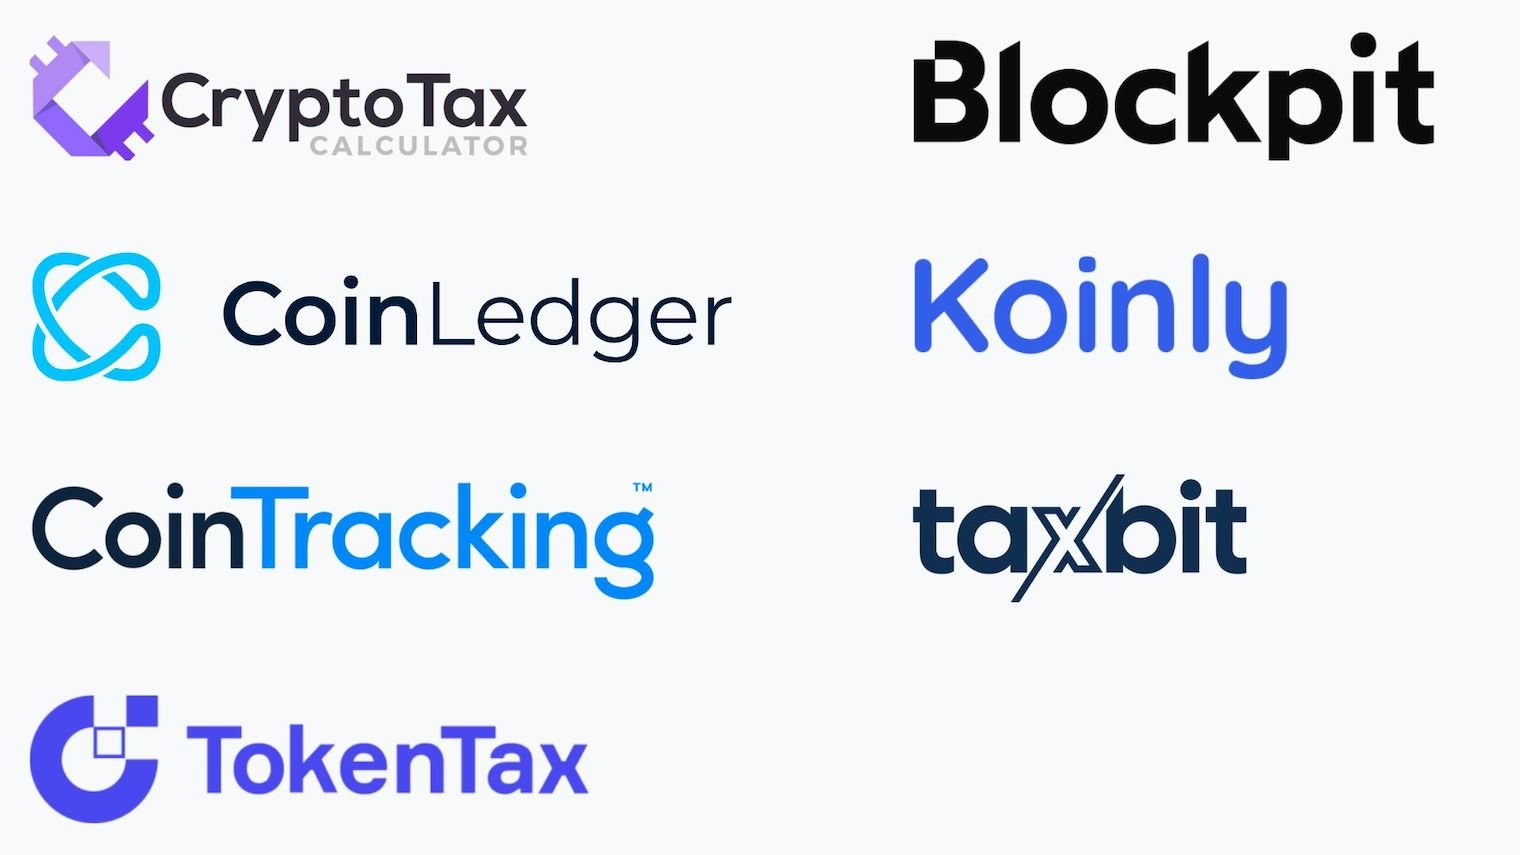
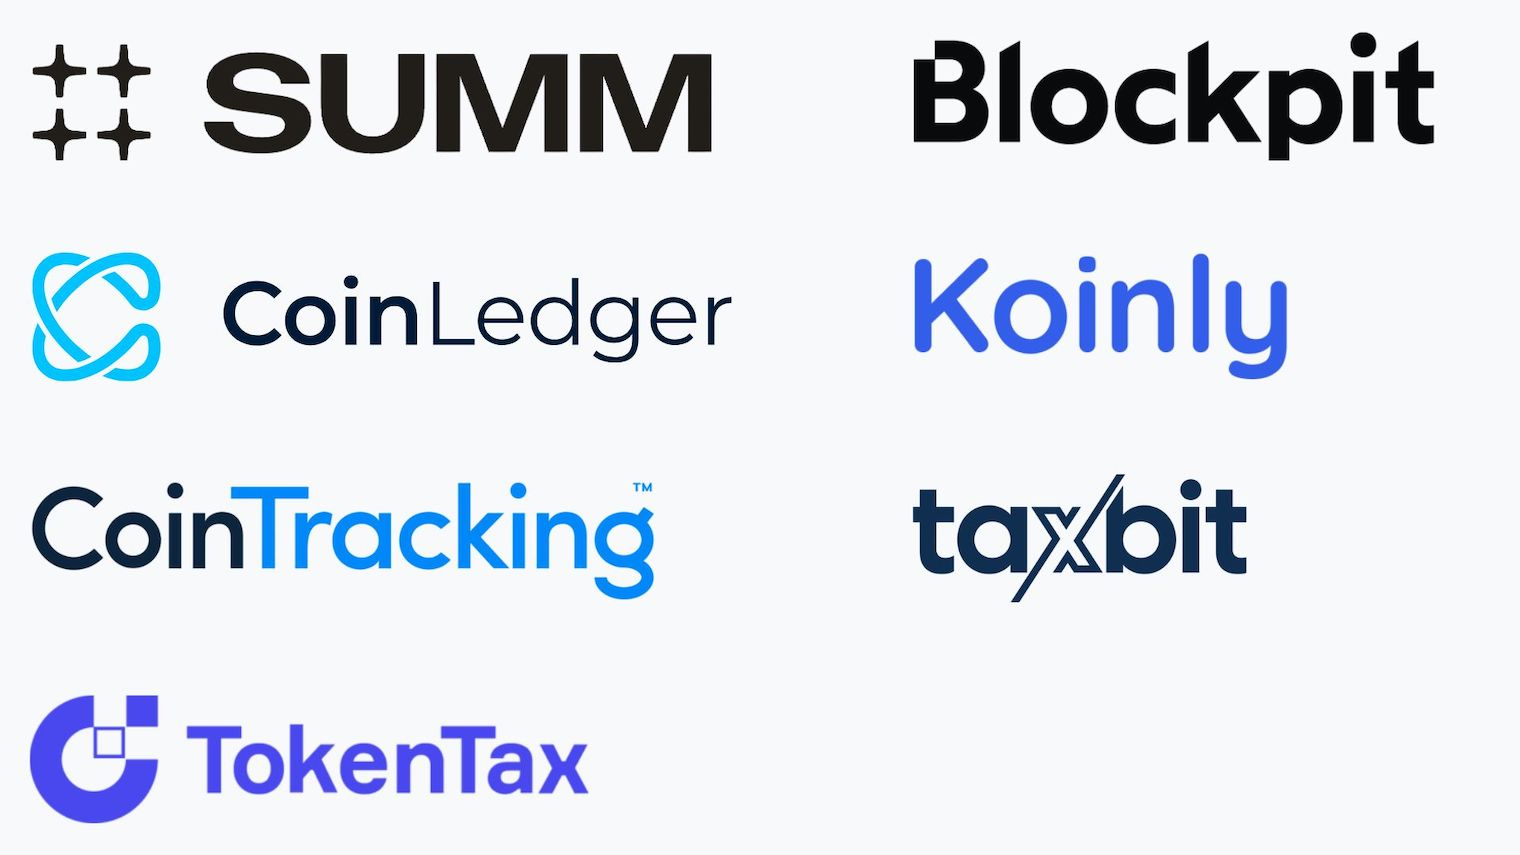
updates

Changed region(s): [[0.0, 0.0304, 0.4947, 0.1825]]

diff --git a/pages/learn/xrp-xah-taxes.js b/pages/learn/xrp-xah-taxes.js
@@ -134,7 +134,7 @@ export default function XRPXAHTaxes() {
               <strong>CoinLedger</strong>
             </li>
             <li>
-              <strong>CryptoTax Calculator</strong>
+              <strong>SUMM (formerly Crypto Tax Calculator)</strong>
             </li>
             <li>
               <strong>TaxBit</strong>
